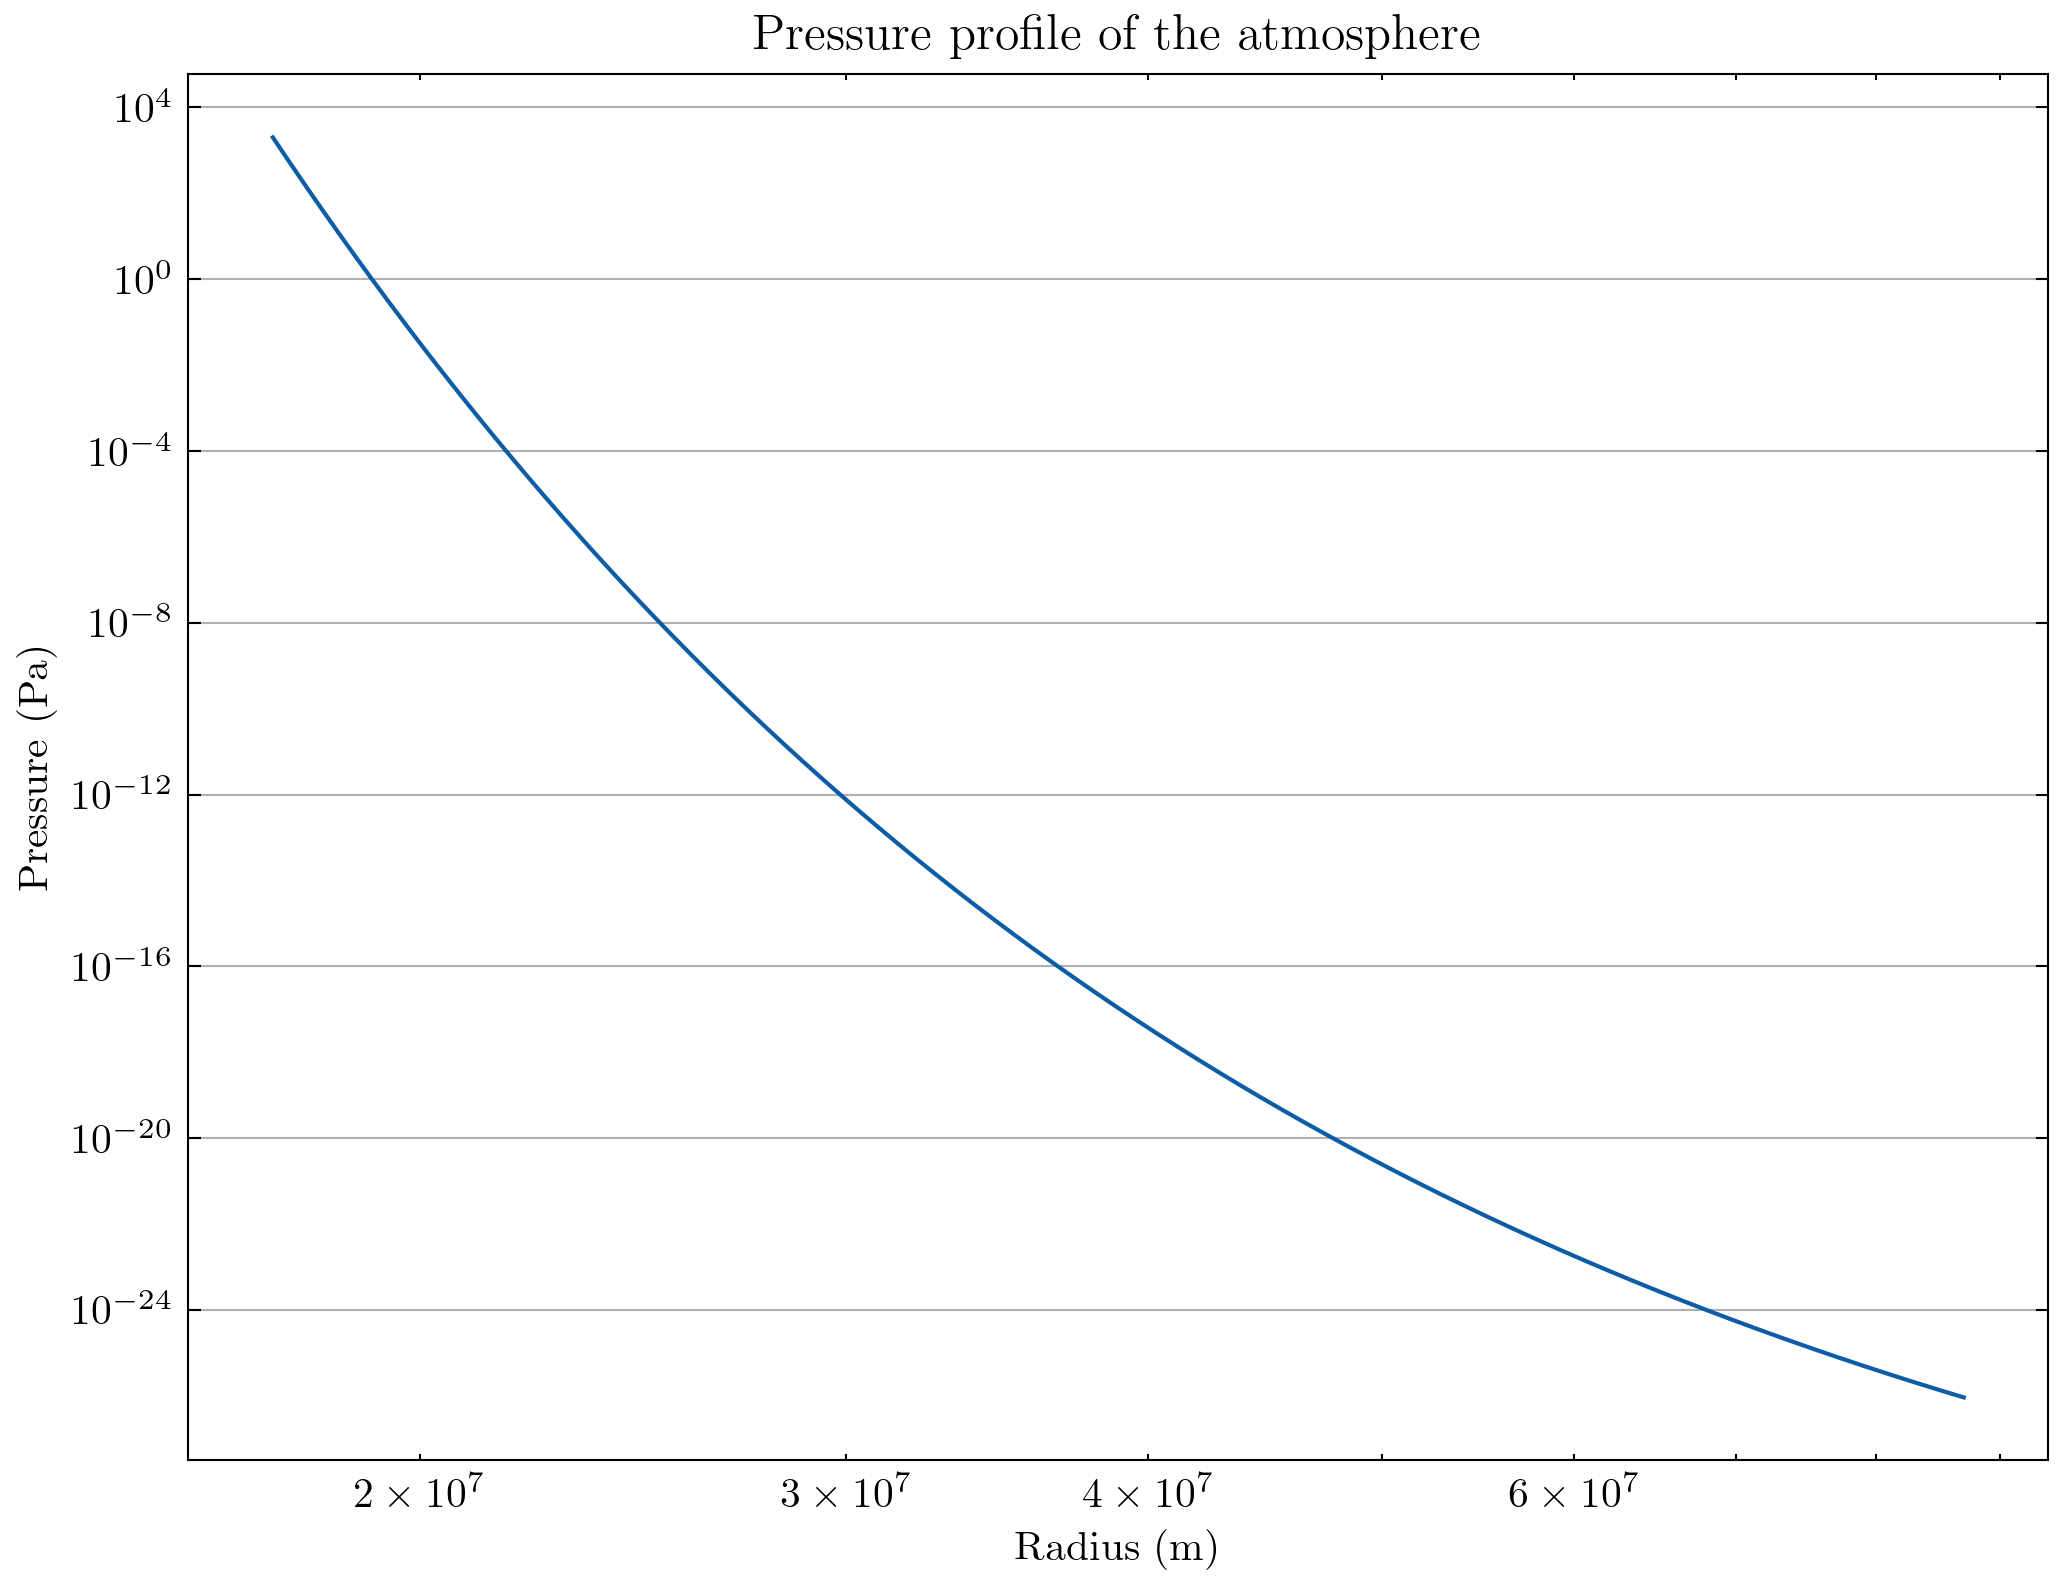
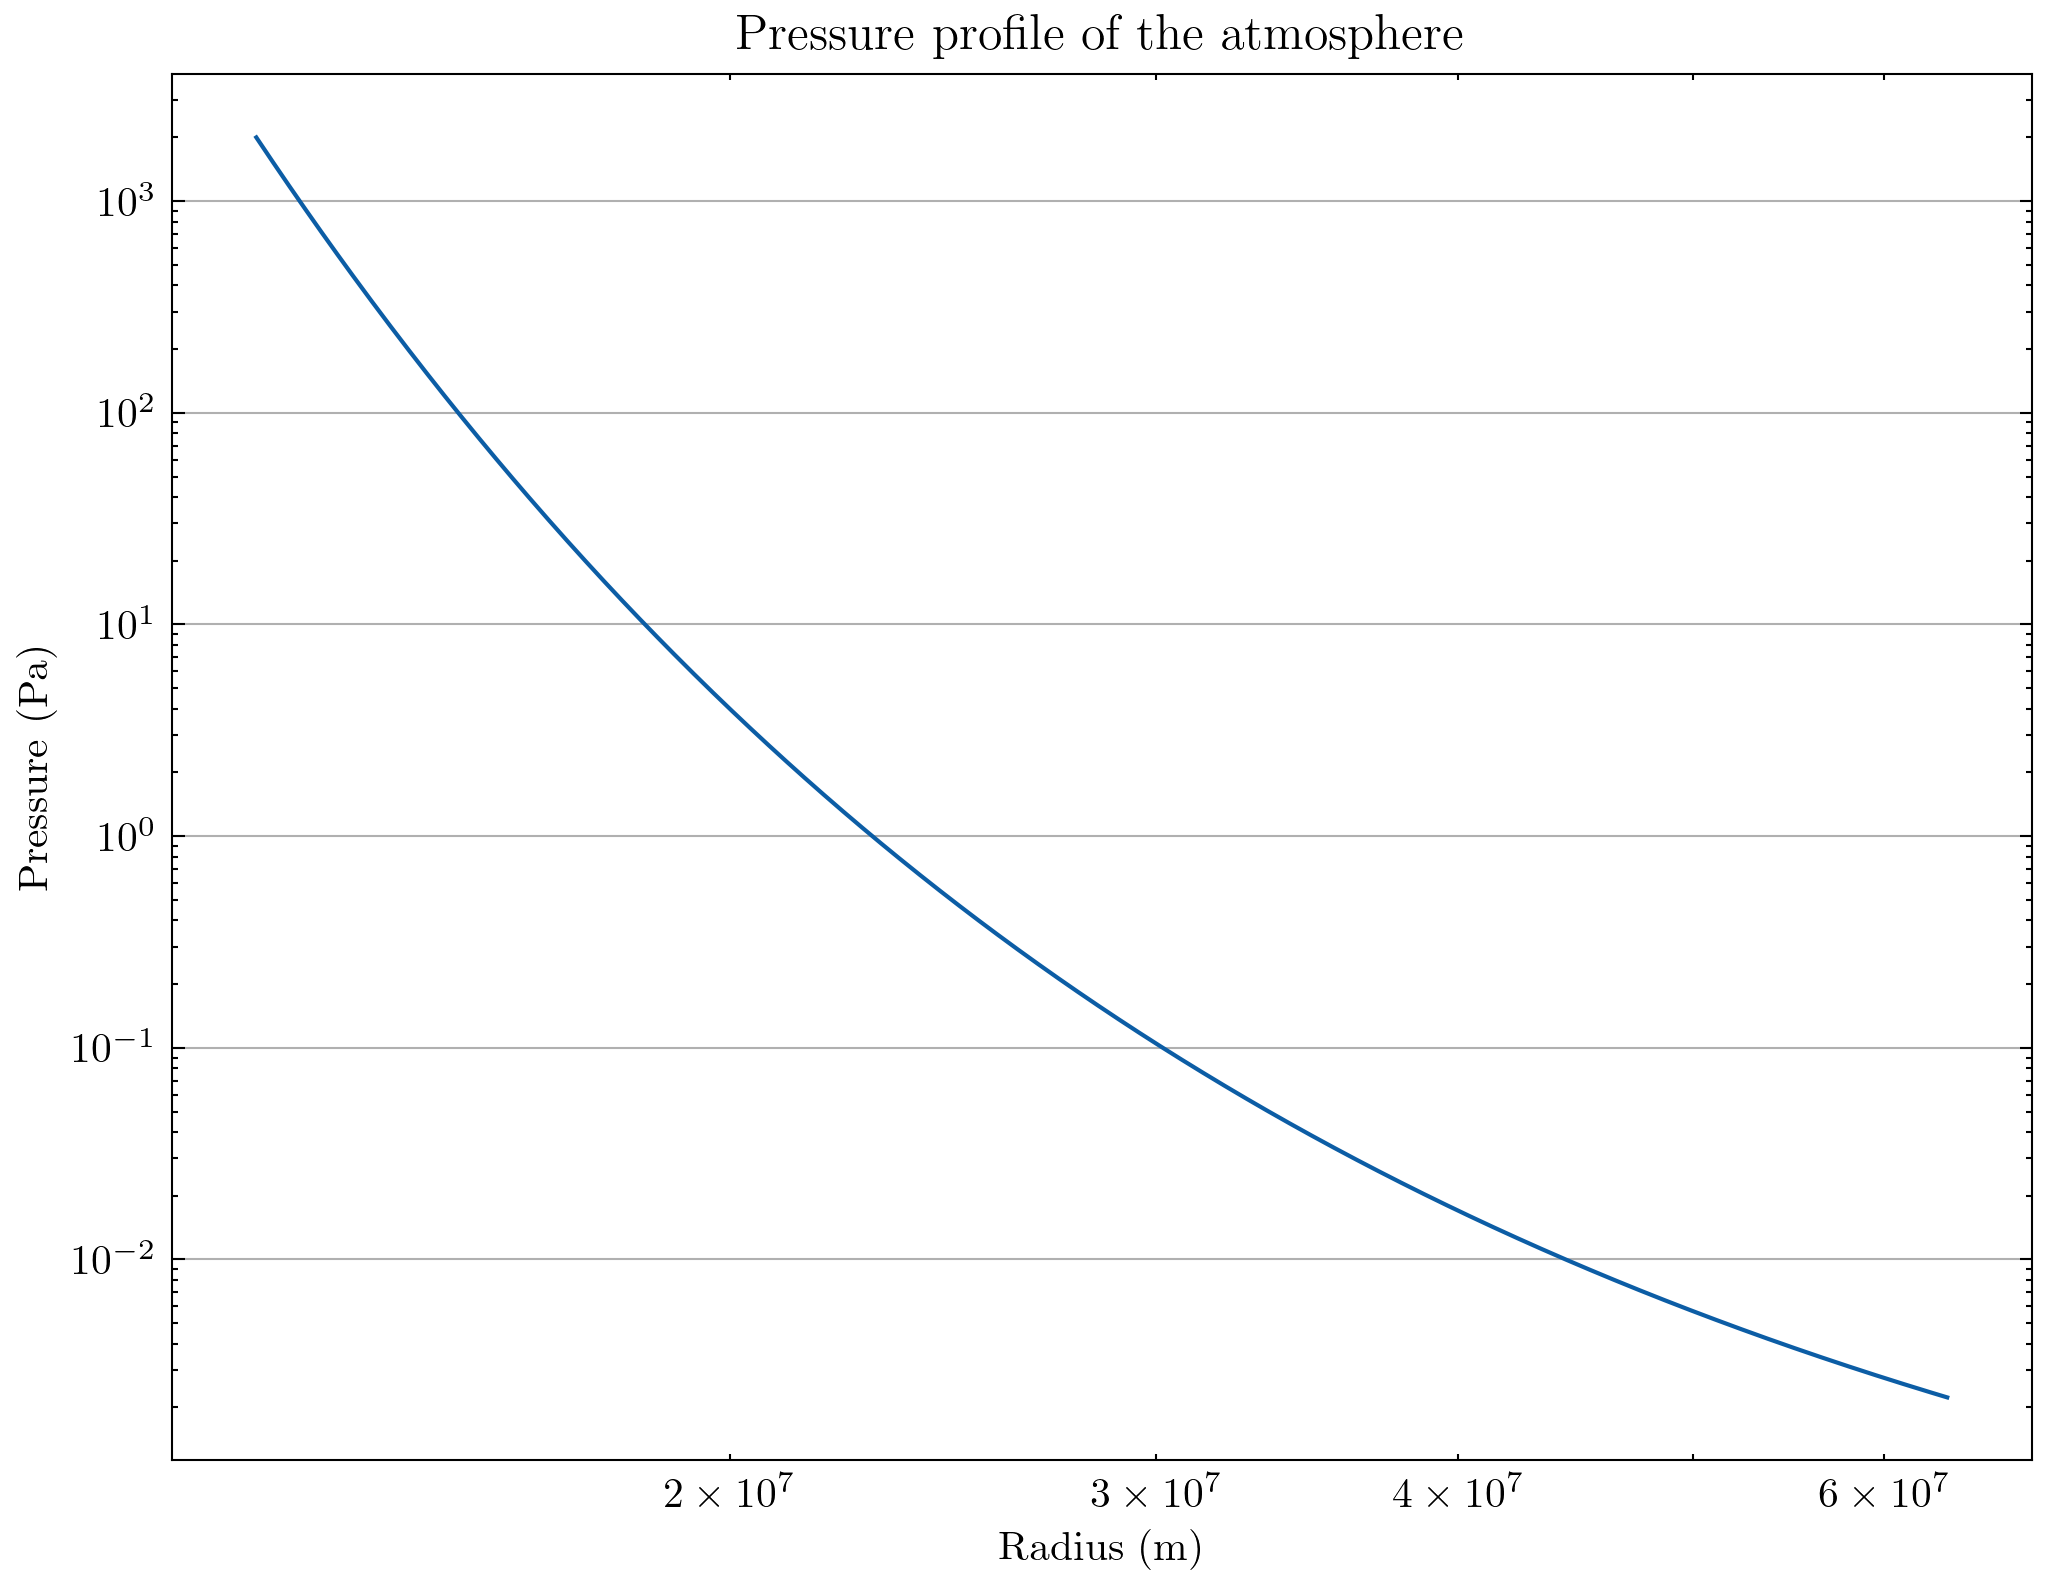
Modified files to run simple H2He mix

diff --git a/atmospheres/simple_H2He_mix.py b/atmospheres/simple_H2He_mix.py
@@ -1,5 +1,7 @@
 import scipy as sp
 import numpy as np
+from atmospheres.atmosphere_setting import Atmosphere
+from conversions import *
 
 G = sp.constants.G #[m^3 kg^-1 s^-2]
 m_p = sp.constants.m_p #[kg]
@@ -15,14 +17,26 @@ mu_plus_wind = 1.3                          #[dimless]   mean molecular weight o
 #testcase values for the other necessary input parameters for the rr_escape_rate function using jupiter mass and radius, and a typical XUV flux for a close-in exoplanet
 M_p          = 5.9722 * 10**24               #[kg]        planetary mass
 #R_base     = 7.1492 * 10**7                #[m]         radius of the base of the escaping atmosphere
-F_xuv        = 1.361 * 10**5                #[kg s^-3]    XUV flux. 100 times the solar flux of earth
+F_ins        = 10**2.93 * erg_to_joule * cm_to_m**(-2) * 10**6                #[kg s^-3]    XUV flux. 100 times the solar flux of earth
 nu_0         = 4.835981008048 * 10**15      #[Hz]        20eV. Maybe this value because of helium in mix. For ionising the atoms.
 R_p          = 2 * 6.371 * 10**6            #[m]         planetary radius. 2 times earth radius
 P_0          = 2000                         #[Pa]        pressure at the optical photosphere
-T_eq         = 1500                         #[K]         equilibrium temperature of the planet
+T_eq         = np.full(1000, 553)                         #[K]         equilibrium temperature of the planet
 mu_photo     = 2.5                            #[dimless]   mean molecular weight at the optical photosphere, assumed to be entirely molecular hydrogen
 
 radii = np.linspace(R_p, 5*R_p, 1000) #[m] array of radii from the planetary radius to 10 times the planetary radius
 
 pressures = P_0 * np.exp(G * M_p * mu_photo * m_p / (k_b * T_eq) * (1/radii - 1/R_p) ) #[Pa] pressure profile of the atmosphere based on the barometric formula, where P_0: pressure at the optical photosphere, G: gravitational constant, M_p: planetary mass, mu_photo: mean molecular weight at the optical photosphere, m_p: proton mass, k_b: Boltzmann constant, T_eq: equilibrium temperature of the planet, radii: array of radii from the planetary radius to 10 times the planetary radius
 
+atm_H2He_mix = Atmosphere(
+    T_wind=T_wind, 
+    mu_wind=mu_wind, 
+    M_p=M_p, 
+    F_ins=F_ins, 
+    nu_0=nu_0, 
+    mu_plus_wind=mu_plus_wind, 
+    R_p=R_p, 
+    pressures=pressures, 
+    temperatures=T_eq, #using the constant T_eq as a starting array
+    heights=radii - R_p
+)

diff --git a/road_runner.py b/road_runner.py
@@ -5,6 +5,7 @@ from rr_escape import *
 from proteus_fetch import atm_H2_case1
 from proteus_fetch import atm_H2_case1000
 from atmospheres.simple_H2 import atm_H2
+from atmospheres.simple_H2He_mix import atm_H2He_mix
 from plots.plotter import plot_P_over_R, plot_T_over_R
 from scipy.constants import G
 
@@ -12,7 +13,7 @@ from scipy.constants import G
 ### Calculating the escape parameters ###
 
 #I want to examine this atmosphere:
-atm = atm_H2
+atm = atm_H2He_mix
 print("Examining the following atmosphere:")
 print(f"Bulk properties: M_p = {atm.M_p:.2g} kg, R_p = {atm.R_p:.2g} m, F_xuv = {atm.F_xuv:.2g} W/m^2")
 print(f"Wind properties: T_wind = {atm.T_wind:.2g} K, mu_wind = {atm.mu_wind:.2f}, nu_0 = {atm.nu_0:.2e} Hz, mu_plus_wind = {atm.mu_plus_wind:.2f}")
